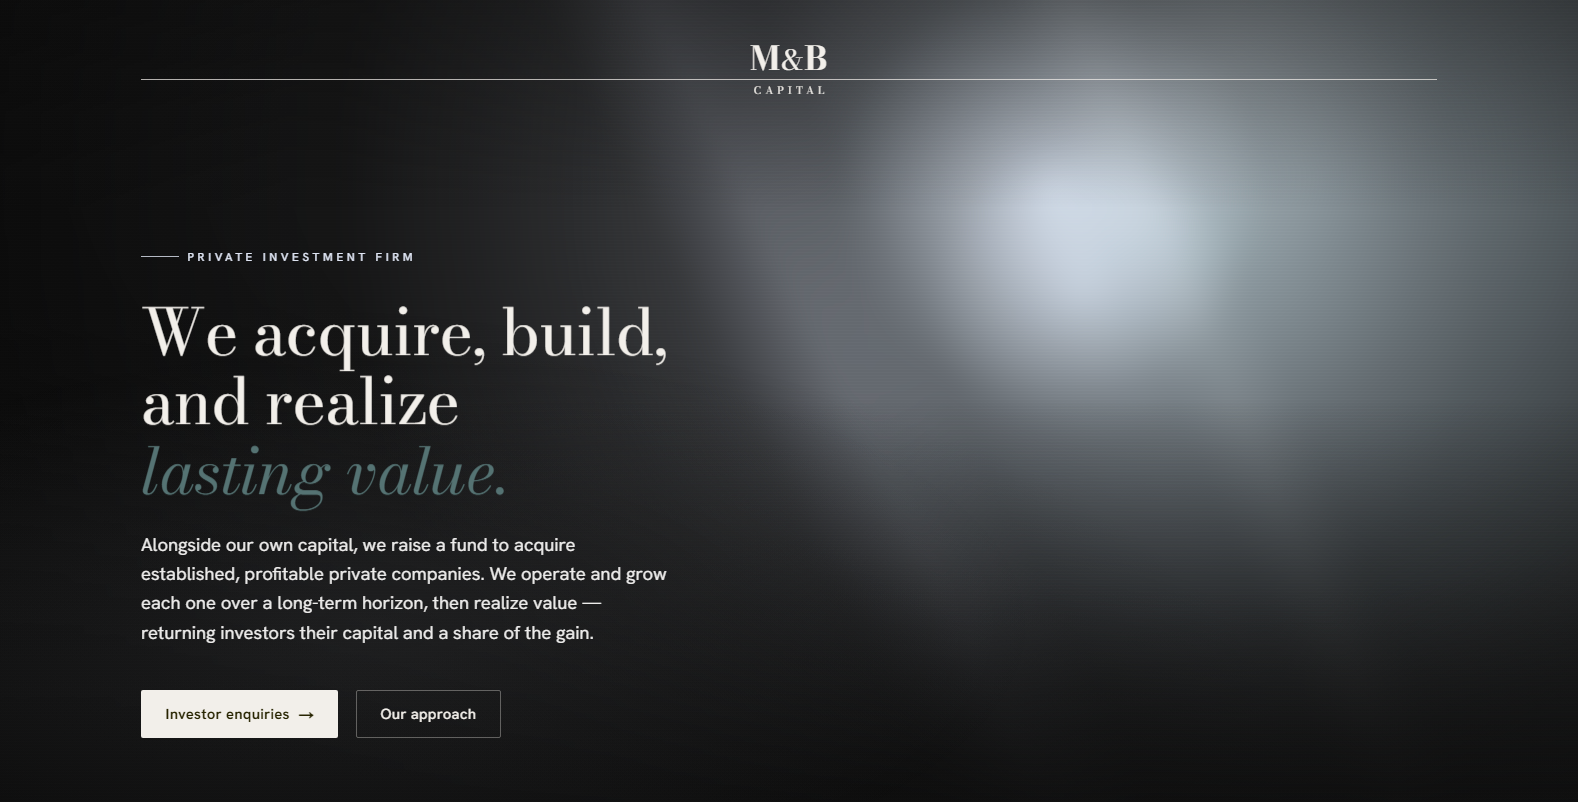
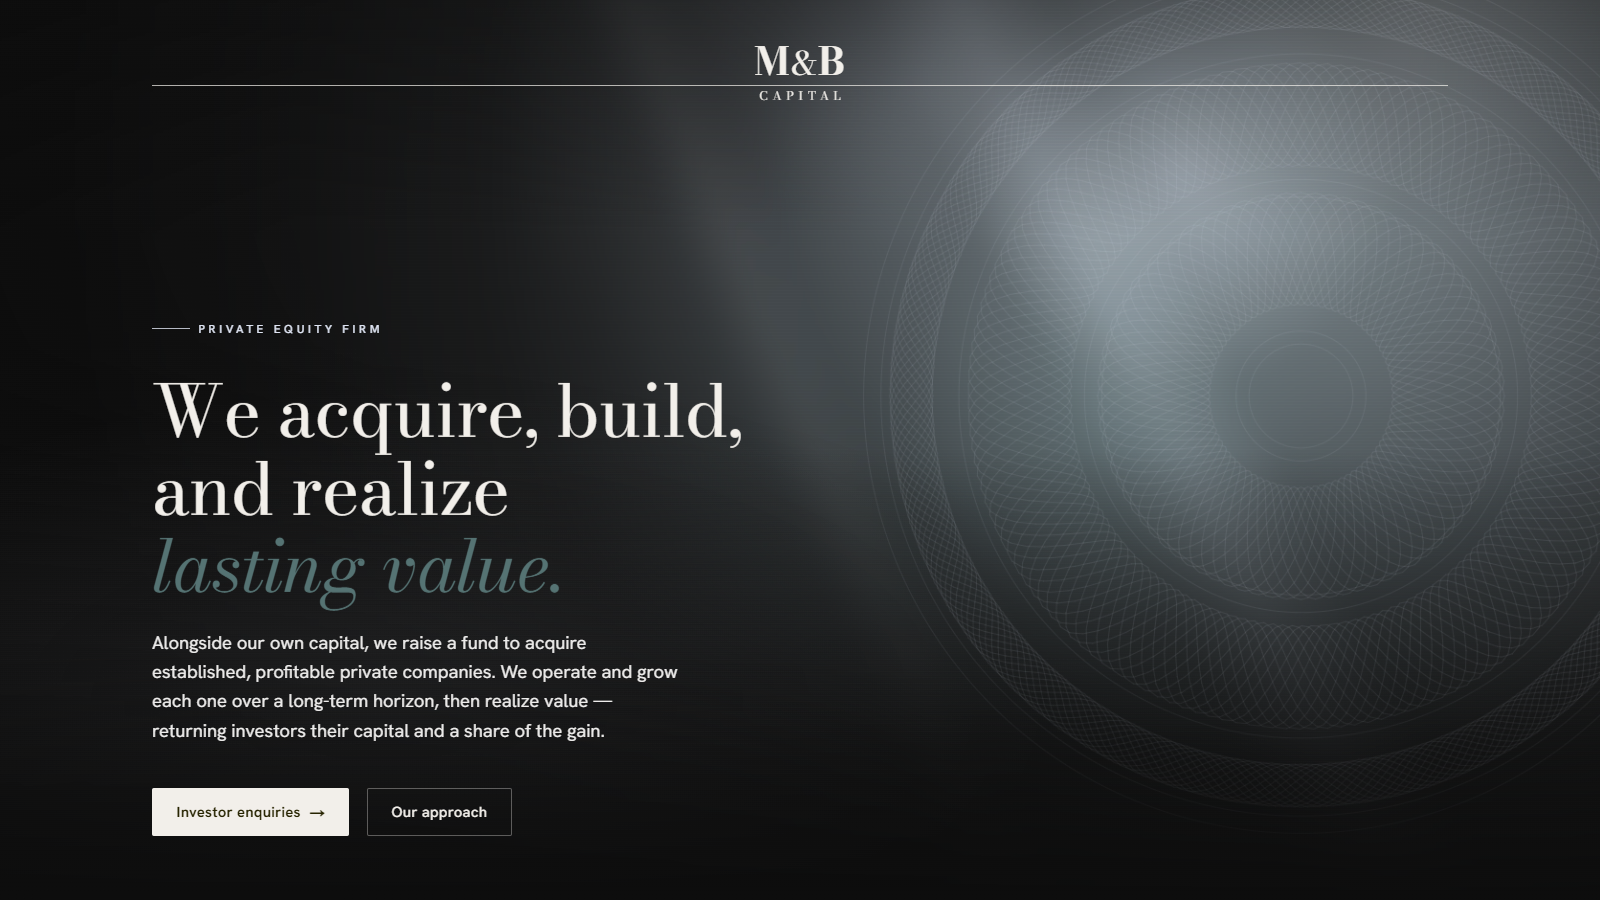
Broaden the web design page beyond trades; refresh two screenshots
The business page was written for Kelowna trades and contractors only.
It now speaks to any local small business: the headline, first-screen
copy, page title and description name a spread of business types
(shops, studios, clinics, restaurants, trades, professional services).

The standard build is renamed from "The Contractor Site" to "The Small
Business Site". Price and page count are unchanged ($2,500 CAD, 6
pages). The sixth page is now a choice (FAQ, team, menu or service
areas) instead of always being service areas. The claims log row is
updated to match.

EdgeFinder and M&B Capital screenshots are recaptured from the live
sites at 1600x900. Each capture waited for network idle, web fonts and
in-view images, then a wall-clock settle. EdgeFinder's consent banner
was dismissed with "Reject all" first. M&B Capital's hero canvases
animate continuously, so it got a 45s settle, well past its ~10s intro.

diff --git a/src/components/sections/WebDev.jsx b/src/components/sections/WebDev.jsx
@@ -74,7 +74,7 @@ const services = [
 // for anything that wasn't commissioned. Guessing here is how a section like
 // this quietly overstates a track record.
 //
-// Ordering is for the visitor this page is for: a trades or local business owner
+// Ordering is for the visitor this page is for: a local business owner
 // deciding whether this person builds sites for people like them. Client work
 // leads; the concept and the personal product sit lower, so the section opens on
 // what it claims to be. The YouTube channel page is the least relatable proof
@@ -145,7 +145,7 @@ const work = [
   },
 ]
 
-// Trust signals for a risk-reduction-driven buyer: a contractor or shop owner
+// Trust signals for a risk-reduction-driven buyer: a business owner
 // deciding whether hiring this person is safe. Every line is a promise Brayden
 // confirmed he will actually hold to — don't add to this list without asking
 // him first, and don't soften one without telling him it changed.
@@ -216,9 +216,10 @@ const WebDev = () => {
     <>
       {/* First screen. Four things have to be answerable above the fold: who
           this is for, what they get, why it's credible, and what to do next.
-          A contractor should be able to say who it's for after five seconds —
-          which is why the trades are named outright rather than implied by
-          "small business".
+          The page used to be for trades only; Brayden broadened it to any local
+          business (2026-10-20). A spread of business types is still named
+          outright, so a visitor can find themselves in it in five seconds
+          rather than having to infer it from "small business".
 
           Every line here is either a description of the product, a fact about
           Brayden's own pricing, or a promise about his own conduct. There are no
@@ -228,8 +229,8 @@ const WebDev = () => {
           fifth here without asking him first.
 
           Top padding is deliberately tighter on mobile than desktop: the whole
-          screen has to clear the fold on a phone, which is where a contractor
-          will actually open it. */}
+          screen has to clear the fold on a phone, which is where a business
+          owner will actually open it. */}
       <section id="webdev" className="relative px-6 pt-28 pb-12 sm:pt-40">
         <div className="relative mx-auto max-w-3xl text-center">
           <Reveal>
@@ -240,13 +241,14 @@ const WebDev = () => {
           </Reveal>
           <Reveal delay={0.05}>
             <h1 className="mt-4 font-display text-4xl font-bold leading-tight tracking-tight text-ink sm:text-5xl">
-              Websites for Kelowna <span className="text-gradient">trades</span>
+              Websites for Kelowna{' '}
+              <span className="text-gradient">small businesses</span>
             </h1>
           </Reveal>
           <Reveal delay={0.1}>
             <p className="mt-5 text-lg leading-relaxed text-ink-soft">
-              Roofing, HVAC, electrical, plumbing. A {BUILD_STANDARD.pages}-page site with a quote
-              form, for one fixed price:{' '}
+              Shops, studios, clinics, restaurants, trades and professional services. A{' '}
+              {BUILD_STANDARD.pages}-page site with a contact form, for one fixed price:{' '}
               <span className="whitespace-nowrap font-semibold text-ink">
                 {formatPrice(BUILD_STANDARD.amount)} {CURRENCY}
               </span>
@@ -506,8 +508,7 @@ const WebDev = () => {
                 </h3>
                 <p className="mt-3 text-sm leading-relaxed text-ink-soft">
                   A launched site still needs upkeep, and things change — prices, hours, a new
-                  service, photos of last week&apos;s job. Pick a plan and send them over. Cancel
-                  any time.
+                  service, new photos. Pick a plan and send them over. Cancel any time.
                 </p>
               </div>
             </Reveal>
@@ -519,7 +520,7 @@ const WebDev = () => {
                 DOM order is Essentials, Care, Growth so Care lands centre on desktop.
                 The `-order-1 sm:order-none` on the recommended plan pulls it to the
                 top when the grid stacks on a phone, so the default is what a
-                contractor sees first there too. */}
+                visitor sees first there too. */}
             <div className="mx-auto grid max-w-5xl gap-6 sm:grid-cols-3 sm:items-stretch">
               {CARE_PLANS.map((plan, i) => (
                 <Reveal
@@ -628,13 +629,13 @@ const WebDev = () => {
                 <h2 className="font-display text-2xl font-semibold text-ink">
                   <span className="text-gradient">About me</span>
                 </h2>
-                {/* The first screen commits to Kelowna trades deliberately. This is
-                    where the wider reach lives instead — below the fold, so it can't
+                {/* The first screen commits to Kelowna deliberately. This is where
+                    the wider reach lives instead — below the fold, so it can't
                     dilute who the page is for, but still there for the out-of-town
                     enquiries and existing ad traffic that already land here. */}
                 <p className="mt-3 leading-relaxed text-ink-soft">
                   Hi, I&apos;m Brayden Coghill, a web developer in Kelowna, BC. I build sites for
-                  local trades and contractors across the Central Okanagan — and I work remotely
+                  small businesses of every kind across the Central Okanagan — and I work remotely
                   with clients elsewhere in Canada too. My goal is to build sites that are not only
                   good looking but also fast, reliable, and straightforward for you to keep using
                   after launch.

diff --git a/src/data/pricing.js b/src/data/pricing.js
@@ -23,16 +23,18 @@ export const formatPrice = (amount) => `$${amount.toLocaleString('en-CA')}`
 // One-off builds
 // ---------------------------------------------------------------------------
 
-// The standard productized build: a fixed-scope contractor site.
+// The standard productized build: a fixed-scope small-business site.
 //
 // `amount` moves 2500 -> 3500 once THREE case studies of real client work are
 // published. That is a trigger, not a date — and it counts real client work
 // only, not demos or self-directed projects. As of now there are zero.
 //
-// `pages` is the fixed scope: home, services, service areas, about, contact
-// with quote form, gallery. Keep it in step with the build template — if the
-// template grows a seventh page type, that is a change to what $2,500 buys, not
-// a detail.
+// `pages` is the fixed scope: home, services, about, gallery, contact with
+// form, plus one more standard page the client picks (FAQ, team, menu or
+// service areas). The sixth page used to be service areas for everyone; it
+// became a choice when the offer widened from trades to any business. Keep it
+// in step with the build template — if the template grows a seventh page type,
+// that is a change to what $2,500 buys, not a detail.
 export const BUILD_STANDARD = {
   amount: 2500,
   pages: 6,
@@ -51,18 +53,18 @@ export const BUILD_CUSTOM_FROM = { amount: 12000 }
 export const BUILD_TIERS = [
   {
     id: 'standard',
-    name: 'The Contractor Site',
-    tagline: `A ${BUILD_STANDARD.pages}-page site for a single-location trade business.`,
+    name: 'The Small Business Site',
+    tagline: `A ${BUILD_STANDARD.pages}-page site for a single-location business.`,
     amount: BUILD_STANDARD.amount,
     // "flat" not "starting from" — the whole positioning is that this is a
     // fixed price, and "starting from" quietly reintroduces the quote.
     priceNote: 'flat',
     featured: true,
     features: [
-      `${BUILD_STANDARD.pages} pages: home, services, service areas, about, contact, gallery`,
-      'Quote request form, wired up and tested',
+      `${BUILD_STANDARD.pages} pages: home, services, about, gallery, contact, plus one you choose (FAQ, team, menu or service areas)`,
+      'Contact or quote request form, wired up and tested',
       'Built for phones first',
-      'Your service areas and trades set up on each page',
+      'Your services, hours and location set up on each page',
       'Google Business Profile configured',
       'Accessibility pass on every page',
       'Domain, hosting and email set up for you at launch',
@@ -76,7 +78,7 @@ export const BUILD_TIERS = [
     priceNote: 'flat',
     featured: false,
     features: [
-      'Everything in The Contractor Site',
+      'Everything in The Small Business Site',
       'A page per location or service area',
       'Separate contact routing per location',
       'Location-specific Google Business Profiles',

diff --git a/index.html b/index.html
@@ -37,8 +37,8 @@
          /portfolio route swaps them at runtime — see DocumentMeta in App.jsx. -->
     <!-- The old keyword meta tag was deliberately deleted, not rewritten: it was
          stuffed, and no modern search engine reads it. -->
-    <meta name="description" content="Websites for Kelowna trades and contractors — roofing, HVAC, electrical, plumbing. A 6-page site with a quote form for one fixed price, published up front. You deal with me directly and get a reply within one business day."/>
-    <title>Websites for Kelowna Trades &amp; Contractors | Coghilldev</title>
+    <meta name="description" content="Websites for Kelowna small businesses — shops, studios, clinics, restaurants, trades and professional services. A 6-page site with a contact form for one fixed price, published up front. You deal with me directly and get a reply within one business day."/>
+    <title>Websites for Kelowna Small Businesses | Coghilldev</title>
     <script>
         // Reverse the GitHub Pages SPA redirect by restoring the original path
         (function () {

diff --git a/src/App.jsx b/src/App.jsx
@@ -58,9 +58,9 @@ function HashScroll({ ready }) {
 
 const ROUTE_META = {
   '/': {
-    title: 'Websites for Kelowna Trades & Contractors | Coghilldev',
+    title: 'Websites for Kelowna Small Businesses | Coghilldev',
     description:
-      'Websites for Kelowna trades and contractors — roofing, HVAC, electrical, plumbing. A 6-page site with a quote form for one fixed price, published up front. You deal with me directly and get a reply within one business day.',
+      'Websites for Kelowna small businesses — shops, studios, clinics, restaurants, trades and professional services. A 6-page site with a contact form for one fixed price, published up front. You deal with me directly and get a reply within one business day.',
   },
   '/portfolio': {
     title: 'Brayden Coghill — Software Developer | Kelowna, BC',

diff --git a/src/data/content.js b/src/data/content.js
@@ -209,7 +209,7 @@ export const education = [
 // The site serves two audiences on two routes, so it needs two nav sets.
 // Navbar and Footer pick one based on the active route.
 
-// Site root: the small-business / trades buyer who wants a website built.
+// Site root: the small-business owner who wants a website built.
 export const businessNav = [
   { label: 'Services', href: '#services' },
   { label: 'Recent Work', href: '#recent-work' },

diff --git a/legal/claims-log.md b/legal/claims-log.md
@@ -34,7 +34,7 @@ The evidence for a price is that it is the published price and it is honoured.
 
 | Claim as published | Evidence | Evidence location | Date obtained | Where published |
 | --- | --- | --- | --- | --- |
-| "$2,500 CAD" flat for a 6-page contractor site | The published price; honoured as quoted | `src/data/pricing.js` → `BUILD_STANDARD` | 2026-08-10 | Homepage first screen, pricing section |
+| "$2,500 CAD" flat for a 6-page small business site (was "contractor site" until 2026-10-20; price and page count unchanged) | The published price; honoured as quoted | `src/data/pricing.js` → `BUILD_STANDARD` | 2026-08-10 | Homepage first screen, pricing section |
 | "$6,500" multi-location | Same | `src/data/pricing.js` → `BUILD_MULTI_LOCATION` | 2026-08-10 | Pricing section |
 | "$12,000 and up" custom / web apps | Same. "and up" is honest here — scope genuinely isn't fixed | `src/data/pricing.js` → `BUILD_CUSTOM_FROM` | 2026-08-10 | Pricing section |
 | "Published, not quoted" | Describes Coghilldev's own practice. True as long as prices stay on the page | The pricing section itself | 2026-08-10 | Homepage first screen |
